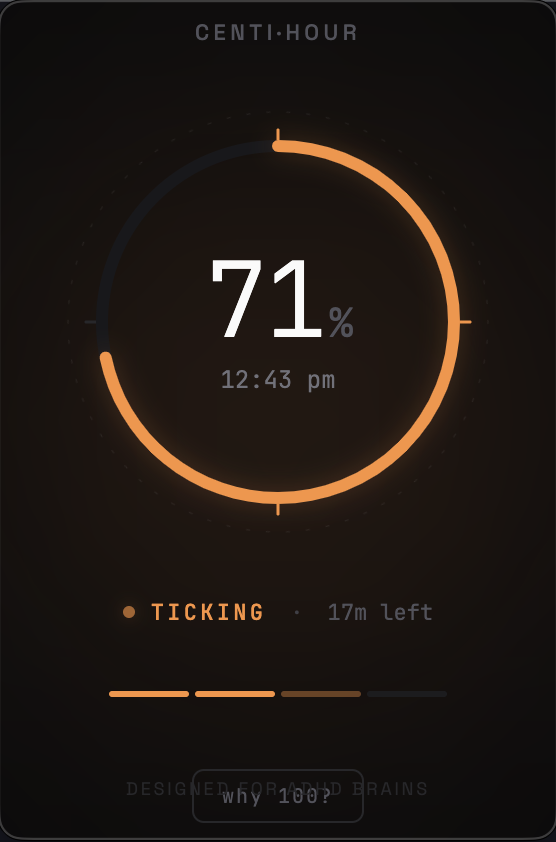
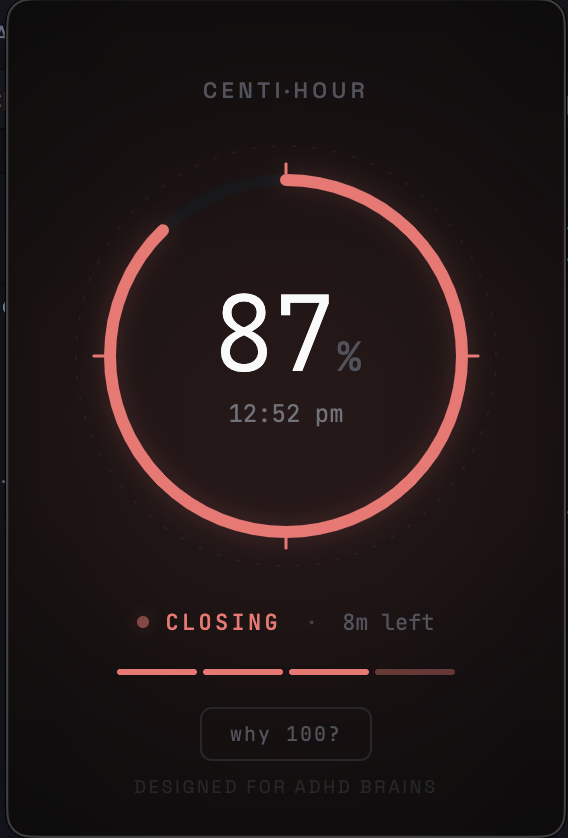
Fix info panel overlap and make it dismissible
- Reduce main-container gap to prevent bottom elements overlapping
- Make info panel an absolute overlay instead of inline flex child
- Click info panel to dismiss (covers hide button when open)
- Update screenshot to show fixed layout

diff --git a/index.html b/index.html
@@ -76,21 +76,21 @@
 
       <!-- Info toggle -->
       <button class="info-btn" id="infoBtn">why 100?</button>
-
-      <!-- Info panel -->
-      <div class="info-panel" id="infoPanel">
-        <p>
-          Your brain thinks in percentages, not sixths.
-          When a clock says <span class="highlight">:30</span>, it
-          doesn't <em>feel</em> like half. But <span class="highlight">50%</span> does.
-          <br /><br />
-          This is time in a language your mind already speaks.
-        </p>
-      </div>
     </div>
 
     <!-- Bottom signature -->
     <div class="signature">DESIGNED FOR ADHD BRAINS</div>
+
+    <!-- Info panel (overlay) -->
+    <div class="info-panel" id="infoPanel">
+      <p>
+        Your brain thinks in percentages, not sixths.
+        When a clock says <span class="highlight">:30</span>, it
+        doesn't <em>feel</em> like half. But <span class="highlight">50%</span> does.
+        <br /><br />
+        This is time in a language your mind already speaks.
+      </p>
+    </div>
   </div>
 
   <script src="renderer.js"></script>

diff --git a/styles.css b/styles.css
@@ -77,7 +77,7 @@ html, body {
   display: flex;
   flex-direction: column;
   align-items: center;
-  gap: 28px;
+  gap: 16px;
   animation: fadeIn 0.6s ease-out;
 }
 
@@ -197,7 +197,6 @@ html, body {
 .segment-bar {
   display: flex;
   gap: 3px;
-  margin-top: 4px;
 }
 
 .segment {
@@ -209,7 +208,6 @@ html, body {
 
 /* ── Info button ──────────────────────────────── */
 .info-btn {
-  margin-top: 8px;
   background: none;
   border: 1px solid #27272A;
   border-radius: 6px;
@@ -229,7 +227,10 @@ html, body {
 
 /* ── Info panel ───────────────────────────────── */
 .info-panel {
-  max-width: 280px;
+  position: absolute;
+  bottom: 12px;
+  left: 12px;
+  right: 12px;
   text-align: center;
   animation: fadeIn 0.4s ease-out;
   padding: 16px 20px;
@@ -237,6 +238,8 @@ html, body {
   border: 1px solid #1C1C1E;
   background-color: #0F0F10;
   display: none;
+  z-index: 10;
+  cursor: pointer;
 }
 
 .info-panel.visible {

diff --git a/renderer.js b/renderer.js
@@ -141,6 +141,12 @@
     $infoBtn.textContent = infoVisible ? "hide" : "why 100?";
   });
 
+  $infoPanel.addEventListener("click", () => {
+    infoVisible = false;
+    $infoPanel.classList.remove("visible");
+    $infoBtn.textContent = "why 100?";
+  });
+
   // ── Init ───────────────────────────────────────
   buildTicks();
   update();
